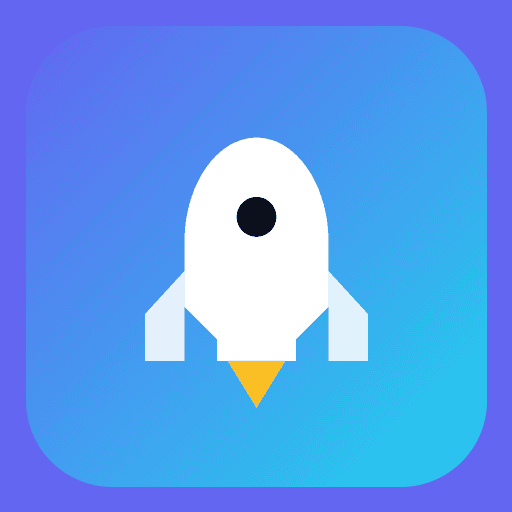
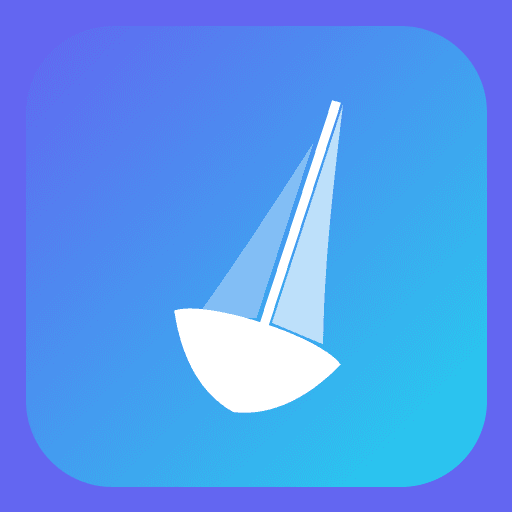
Brand mark: heeling sailboat replaces the rocket
A rocket never had anything to do with the name. The new mark is a sloop heeling
on a level horizon seen from ahead, supplied as a brand pack and used as drawn.

The mark is reproduced verbatim in monohull-icon.svg and favicon.svg, scaled
2.56x from its 200px artboard onto the existing gradient tile, and every PNG
derivative is regenerated from monohull-icon.svg via pwa-assets-generator. The
tile is not part of the pack but is kept deliberately: the artwork is
transparent, and transparent icons read badly against browser tabs, OS
launchers, and the maskable safe area.

MonohullMark reproduces the pack's tonal split — solid mast and hull, 66%
mainsail, 34% jib — through fill-opacity on currentColor, so the same component
serves the white-on-gradient lockups and the indigo-on-dark app bar. It crops to
the artwork's own bounds rather than the full artboard: once heeled, the mark
occupies roughly x 63..138 of 200, so rendering the whole artboard left the boat
looking shrunken inside its tile.

The pack arrived under frontend/public, which Vite copies verbatim into the
bundle — the zip would have shipped inside monohull.jar and been downloadable
from the running app. Source artwork now lives in docs/brand instead.

RocketLaunchIcon still marks the Launch buttons on the dashboard and in the
profile launcher; those are action affordances rather than brand, and are left
for a separate decision.

Claude-Session: https://claude.ai/code/session_014YYAvUm7uVMmx9iqMf9peo

Changed region(s): [[0.2812, 0.1875, 0.7188, 0.8125]]

diff --git a/frontend/src/components/MonohullMark.tsx b/frontend/src/components/MonohullMark.tsx
@@ -1,0 +1,49 @@
+/**
+ * The Monohull brand mark: a sloop heeling on a level horizon, seen from ahead.
+ *
+ * Geometry is the supplied brand pack verbatim (docs/brand/sailboat-mark-white.svg) on its
+ * 200x200 artboard, with the pack's tonal split reproduced through fill-opacity rather than
+ * baked-in whites — so the mark takes whatever colour it is given and works on the gradient
+ * tile, on the dark app bar, and anywhere else.
+ *
+ * The tile itself is not part of this component. Callers that want one draw it around the
+ * mark (see the sidebar and login lockups), which keeps this usable as a bare glyph.
+ */
+type Props = {
+  /** Rendered width and height in px. The mark very nearly fills it — see VIEW_BOX. */
+  size?: number
+  /** Any CSS colour; the mark's mast and hull take it solid, the sails at 66% and 34%. */
+  color?: string
+}
+
+/**
+ * Square window cropped to the mark's own bounds rather than the pack's 200x200 artboard.
+ * Once heeled, the artwork occupies roughly x 63..138, y 32..173, so the artboard leaves a
+ * third of its width empty — rendering it whole makes the mark look shrunken inside the
+ * brand tile. This box is that content area squared off with a little breathing room, so
+ * `size` is the size of the boat rather than the size of the padding around it.
+ */
+const VIEW_BOX = '26 28 149 149'
+
+export default function MonohullMark({ size = 22, color = 'currentColor' }: Props) {
+  return (
+    <svg
+      width={size}
+      height={size}
+      viewBox={VIEW_BOX}
+      style={{ color, display: 'block' }}
+      role="img"
+      aria-label="Monohull"
+    >
+      <g transform="translate(-7 -4) rotate(18 100 162)">
+        <path d="M104 30 C111 66 118 100 128 132 L104 130 Z" fill="currentColor" fillOpacity={0.66} />
+        <path d="M97 50 C88 84 81 110 72 138 L97 130 Z" fill="currentColor" fillOpacity={0.34} />
+        <rect x="99" y="30" width="4" height="106" fill="currentColor" />
+        <path
+          d="M62 138 C74 129 126 129 138 138 C128 158 115 169 100 172 C85 169 72 158 62 138 Z"
+          fill="currentColor"
+        />
+      </g>
+    </svg>
+  )
+}

diff --git a/frontend/src/App.tsx b/frontend/src/App.tsx
@@ -11,8 +11,8 @@ import BoltIcon from '@mui/icons-material/BoltRounded'
 import AccountTreeIcon from '@mui/icons-material/AccountTreeRounded'
 import VpnKeyIcon from '@mui/icons-material/VpnKeyRounded'
 import CodeIcon from '@mui/icons-material/CodeRounded'
-import RocketLaunchIcon from '@mui/icons-material/RocketLaunchRounded'
 import LogoutIcon from '@mui/icons-material/LogoutRounded'
+import MonohullMark from './components/MonohullMark'
 import MenuIcon from '@mui/icons-material/MenuRounded'
 import DashboardPage from './pages/DashboardPage'
 import EnvironmentDetailPage from './pages/EnvironmentDetailPage'
@@ -54,7 +54,7 @@ function SidebarContent({ onClose }: { onClose?: () => void }) {
               boxShadow: '0 4px 14px rgba(99, 102, 241, 0.3)',
             }}
           >
-            <RocketLaunchIcon sx={{ color: '#fff', fontSize: 20 }} />
+            <MonohullMark size={22} color="#fff" />
           </Box>
           <Box>
             <Typography variant="h6" fontWeight={800} sx={{ lineHeight: 1.2, letterSpacing: '-0.02em' }}>
@@ -215,7 +215,7 @@ function MainLayout() {
               <MenuIcon />
             </IconButton>
             <Box sx={{ display: 'flex', alignItems: 'center', gap: 1 }}>
-              <RocketLaunchIcon sx={{ color: '#6366f1', fontSize: 20 }} />
+              <MonohullMark size={22} color="#6366f1" />
               <Typography variant="h6" fontWeight={700} sx={{ fontSize: '1rem' }}>Monohull</Typography>
             </Box>
           </Toolbar>

diff --git a/frontend/src/pages/LoginPage.tsx b/frontend/src/pages/LoginPage.tsx
@@ -3,7 +3,7 @@ import { useNavigate, useLocation, Navigate } from 'react-router-dom'
 import {
   Box, Card, CardContent, Typography, TextField, Button, Alert,
 } from '@mui/material'
-import RocketLaunchIcon from '@mui/icons-material/RocketLaunchRounded'
+import MonohullMark from '../components/MonohullMark'
 import AppFooter from '../components/AppFooter'
 import { useAuth } from '../auth/AuthContext'
 
@@ -60,7 +60,7 @@ export default function LoginPage() {
                 mb: 2,
               }}
             >
-              <RocketLaunchIcon sx={{ color: '#fff', fontSize: 28 }} />
+              <MonohullMark size={32} color="#fff" />
             </Box>
             <Typography variant="h5" fontWeight={800} sx={{ letterSpacing: '-0.02em' }}>
               Monohull

diff --git a/CHANGELOG.md b/CHANGELOG.md
@@ -6,6 +6,11 @@ All notable changes to Monohull are documented here. The format follows
 
 ## [Unreleased]
 
+### Changed
+- New brand mark: a heeling sailboat replaces the rocket across the app icon, favicon,
+  PWA icons, sidebar, mobile app bar, and login card. Source artwork lives in
+  `docs/brand/`; every PNG derivative is generated from `frontend/public/monohull-icon.svg`.
+
 ### Added
 - **DB Command** on image templates and per-environment config: the argument list
   handed to the DB image's entrypoint. Database images that restore a backup only
